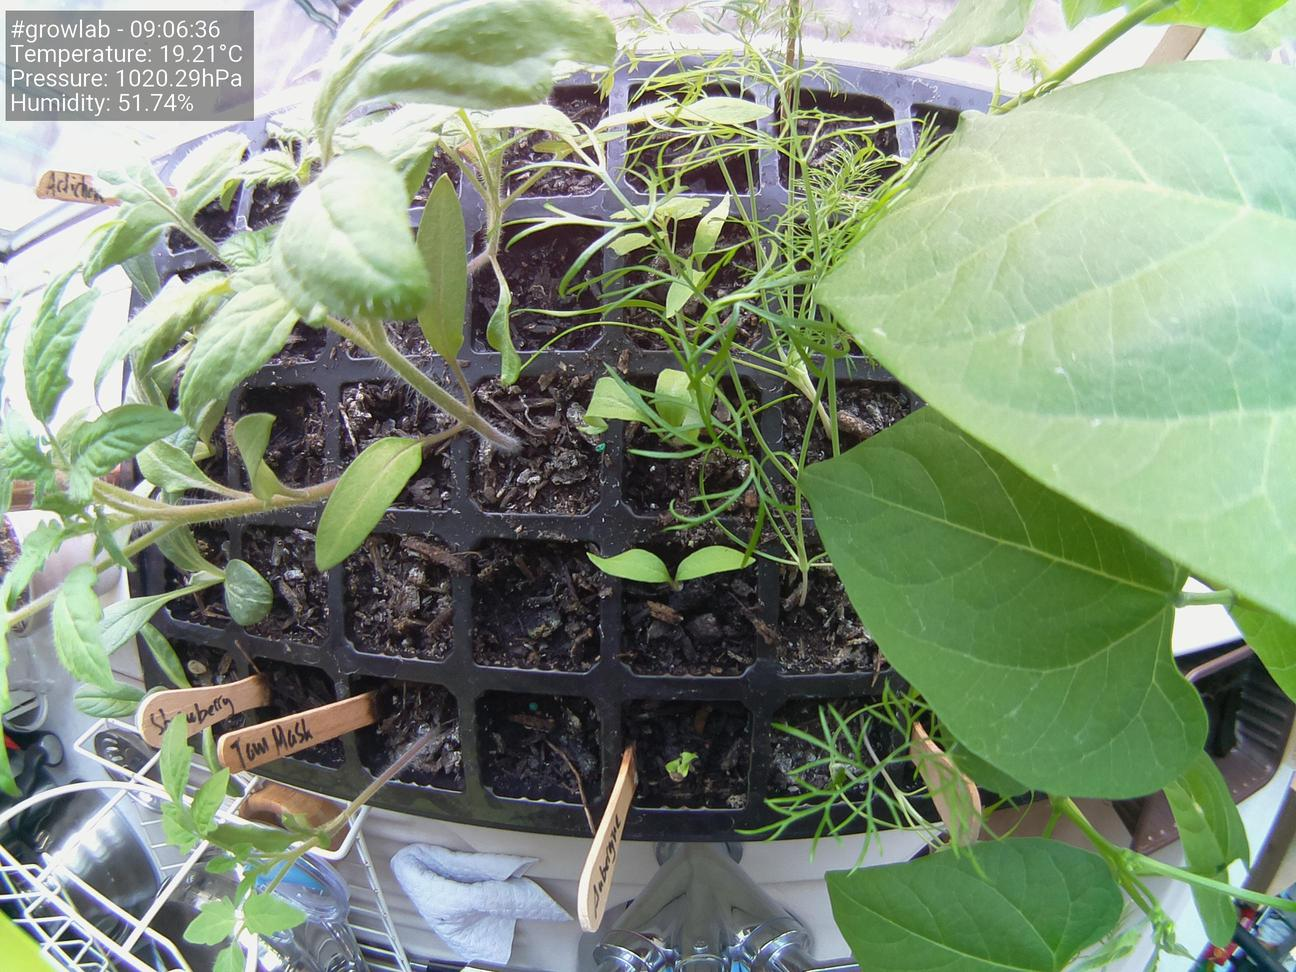
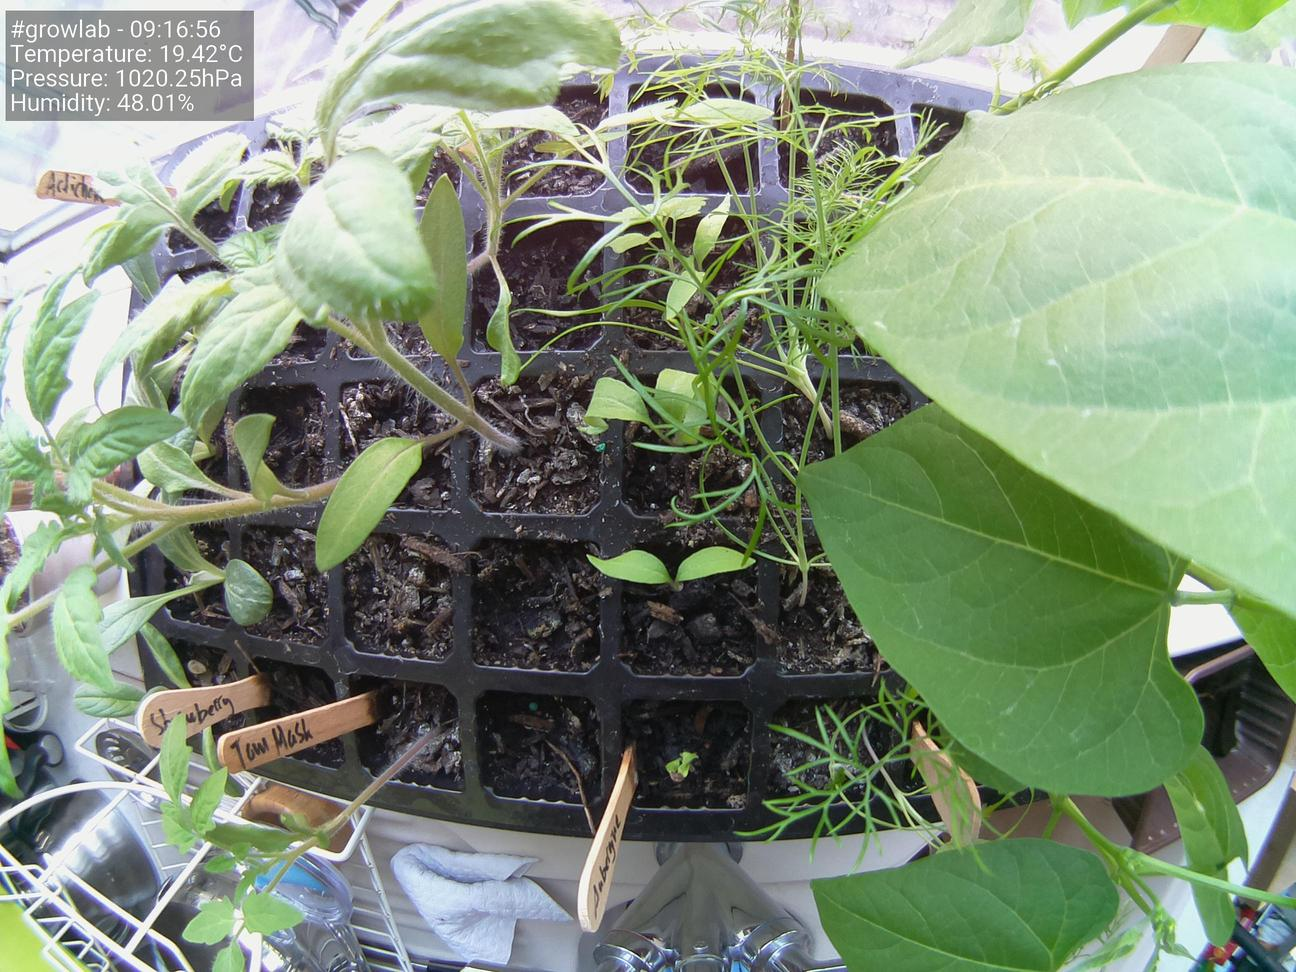
Update images at Sun  2 May 09:17:07 BST 2021

diff --git a/docs/index.html b/docs/index.html
@@ -38,19 +38,19 @@
                     <tbody>
                         <tr>
                             <td>Time</td>
-                            <td>09:06:36</td>
+                            <td>09:16:56</td>
                         </tr>
                         <tr>
                             <td>Temperature</td>
-                            <td>19.21°C</td>
+                            <td>19.42°C</td>
                         </tr>
                         <tr>
                             <td>Humidity</td>
-                            <td>51.74%</td>
+                            <td>48.01%</td>
                         </tr>
                         <tr>
                             <td>Pressure</td>
-                            <td>1020.29hPa</td>
+                            <td>1020.25hPa</td>
                         </tr>
                     </tbody>
                 </table>
@@ -58,7 +58,7 @@
 
                 <h5>Latest image</h5>
 		<div style="width: 85%;">
-	                <img class="figure-img img-fluid rounded" src="./preview.jpg?uid=1619942807.8476286">
+	                <img class="figure-img img-fluid rounded" src="./preview.jpg?uid=1619943427.3328984">
 		</div>
             </div>
         </div>
